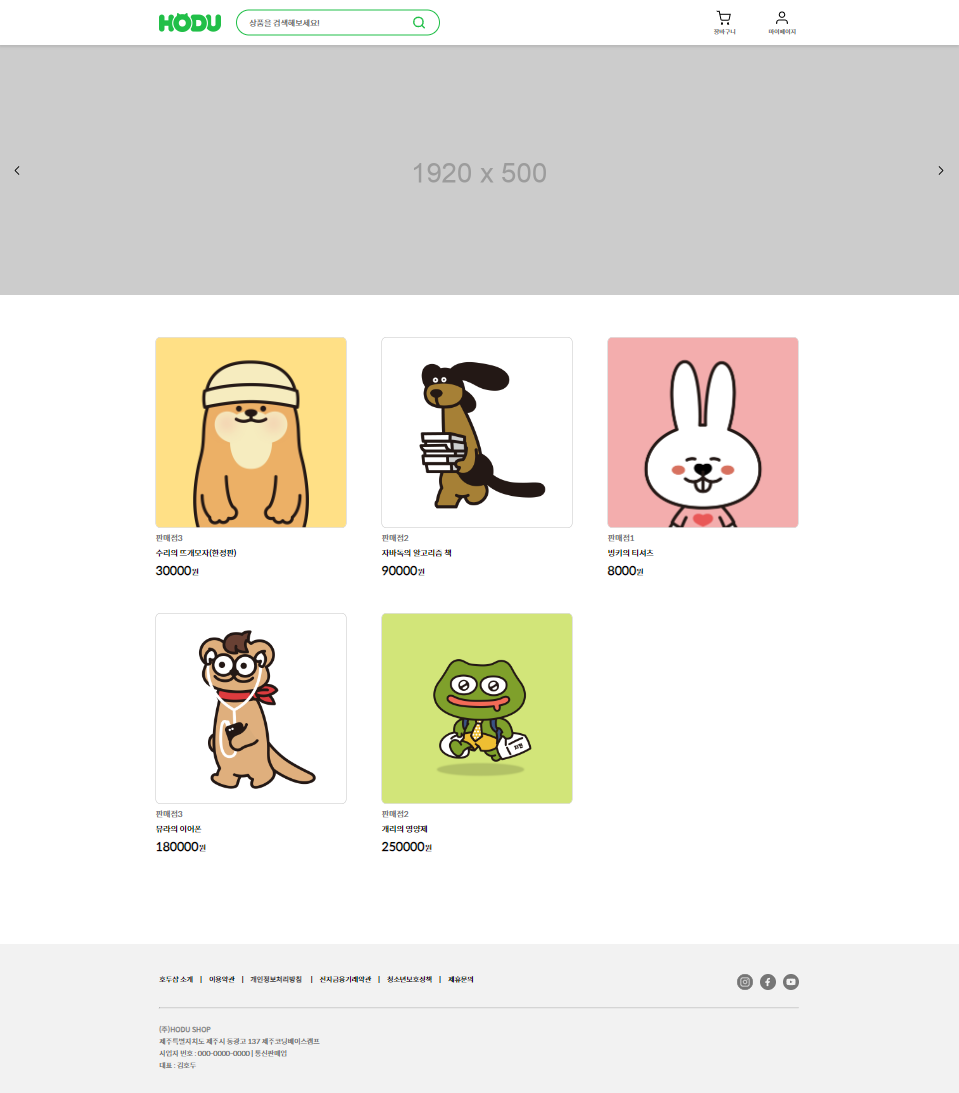
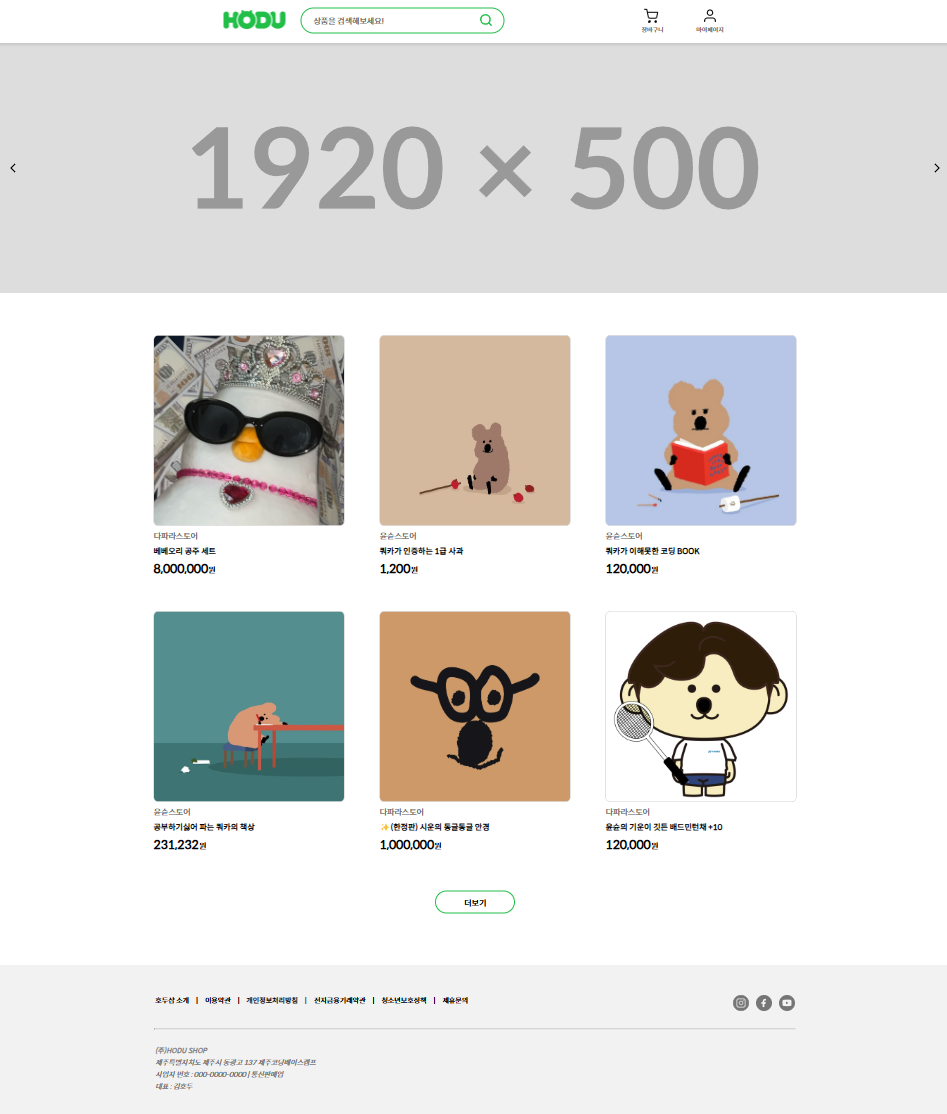
📝 Readme 수정

diff --git a/README.md b/README.md
@@ -17,7 +17,7 @@
 - 비회원과 회원의 상품목록, 상품 상세 페이지 확인 가능
 - 비회원, 로그인(구매자), 로그인(판매자)에 따른 다른 UI 적용
 
-#### 2025.01 ~ 추가 기능
+#### 2025.01.24 ~ 2025.02.07 추가 기능
 
 - 모바일 화면 구현 (반응형 UI 적용)
 - 장바구니 기능 구현
@@ -25,9 +25,10 @@
 - 메인페이지 상품 더보기 기능 구현
 - 상품 검색 기능 구현
 - 마이페이지 구현
-- 주문목록 및 주문취소 기능 구현
-- 판매자 대시보드 구현 중
-- 판매자 상품 등록 및 수정 기능 구현 중
+- 주문목록 및 주문 상세 페이지 구현
+- 주문취소 기능 구현
+- 판매자 대시보드 구현
+- 판매자 상품 등록 및 수정 기능 구현
 
 ## 배포 URL
 
@@ -57,71 +58,19 @@
   |           장바구니           |     GET     |             |    ✅     |
   | 장바구니<br>개별 및 전체삭제 |   DELETE    |             |    ✅     |
   |           주문하기           |    POST     |             |    ✅     |
-  |           주문목록           |     GET     |             |    ✅     |
+  |   주문목록 및 <br>상세목록   |     GET     |             |    ✅     |
   |           주문취소           |   DELETE    |             |    ✅     |
+  |     판매자센터 상품목록      |     GET     |             |    ✅     |
+  |     판매자센터 상품등록      |    POST     |             |    ✅     |
+  |     판매자센터 상품수정      |     PUT     |             |    ✅     |
+  |     판매자센터 상품삭제      |   DELETE    |             |    ✅     |
 
 ## 프로젝트
-
-> 프로젝트 구조
-
-- MPA 사용
-
-  |  🖥  |   로그인   |  회원가입   | 상품 목록  | 상품 상세  | 서버 에러  |
-  | :--: | :--------: | :---------: | :--------: | :--------: | :--------: |
-  | Page | login.html | signup.html | index.html | goods.html | error.html |
-
-- 추가 기능
-  | 🖥 | 장바구니 | 주문하기 | 마이페이지 | 주문 목록 | 판매자 대시보드 | 판매자 상품 등록 |
-  | :--: | :--------: | :---------: | :--------: | :--------: | :--------: | :--------: |
-  | Page | cart.html | order.html | myPage.html | orderList.html | sellerDashBoard.html | sellerGoods.html |
-
-```bash
-📦 Open_market_service
-┣ 📂assets
-┣ 📂css
-┃ ┣ 📜cart.css
-┃ ┣ 📜common.css
-┃ ┣ 📜error.css
-┃ ┣ 📜goods.css
-┃ ┣ 📜login.css
-┃ ┣ 📜main.css
-┃ ┣ 📜myPage.css
-┃ ┣ 📜order.css
-┃ ┣ 📜orderList.css
-┃ ┣ 📜reset.css
-┃ ┣ 📜sellerDashBoard.css
-┃ ┣ 📜sellerGoods.css
-┃ ┗ 📜signup.css
-┣ 📂js
-┃ ┣ 📜cart.js
-┃ ┣ 📜common.js
-┃ ┣ 📜goods.js
-┃ ┣ 📜login.js
-┃ ┣ 📜main.js
-┃ ┣ 📜myPage.js
-┃ ┣ 📜order.js
-┃ ┣ 📜orderList.js
-┃ ┣ 📜sellerDashBoard.js
-┃ ┣ 📜sellerGoods.js
-┃ ┗ 📜signup.js
-┣ 📜cart.html
-┣ 📜error.html
-┣ 📜goods.html
-┣ 📜index.html
-┣ 📜login.html
-┣ 📜myPage.html
-┣ 📜order.html
-┣ 📜orderList.html
-┣ 📜README.md
-┣ 📜sellerDashBoard.html
-┣ 📜sellerGoods.html
-┗ 📜signup.html
-```
 
 - 개발 일정
   > 2024.10.14 ~ 2024.10.21
 - 추가 기능 구현 일정
-  > 2025.01.24 ~ 구현 중
+  > 2025.01.24 ~ 2025.02.07
 
 ```mermaid
 gantt
@@ -149,7 +98,73 @@ section HTML/CSS
     Readme 수정  : after r1, 2024-10-17, 4d
 ```
 
+> 프로젝트 구조
+
+- MPA 사용
+
+  |  🖥  |   로그인   |  회원가입   | 상품 목록  | 상품 상세  | 서버 에러  |
+  | :--: | :--------: | :---------: | :--------: | :--------: | :--------: |
+  | Page | login.html | signup.html | index.html | goods.html | error.html |
+
+- 추가 기능
+  | 🖥 | 장바구니 | 주문하기 | 마이페이지 | 주문 목록 |주문 상세 |
+  | :--: | :--------: | :---------: | :--------: | :--------: |:--------: |
+  | Page | cart.html | order.html | myPage.html | orderList.html |orderDetail.html |
+
+  |  🖥  | 판매자 <br> 대시보드 | 판매자 <br> 상품 등록 | 판매자 <br> 상품 수정  |
+  | :--: | :------------------: | :-------------------: | :--------------------: |
+  | Page | sellerDashBoard.html |   sellerGoods.html    | sellerGoodsUpdate.html |
+
+```bash
+📦 Open_market_service
+┣ 📂assets
+┣ 📂css
+┃ ┣ 📜cart.css
+┃ ┣ 📜common.css
+┃ ┣ 📜error.css
+┃ ┣ 📜goods.css
+┃ ┣ 📜login.css
+┃ ┣ 📜main.css
+┃ ┣ 📜myPage.css
+┃ ┣ 📜order.css
+┃ ┣ 📜orderList.css
+┃ ┣ 📜reset.css
+┃ ┣ 📜sellerDashBoard.css
+┃ ┣ 📜sellerGoods.css
+┃ ┗ 📜signup.css
+┣ 📂js
+┃ ┣ 📜cart.js
+┃ ┣ 📜common.js
+┃ ┣ 📜gnb.js
+┃ ┣ 📜goods.js
+┃ ┣ 📜login.js
+┃ ┣ 📜main.js
+┃ ┣ 📜myPage.js
+┃ ┣ 📜order.js
+┃ ┣ 📜orderDetail.js
+┃ ┣ 📜orderList.js
+┃ ┣ 📜sellerDashBoard.js
+┃ ┣ 📜sellerGoods.js
+┃ ┗ 📜signup.js
+┣ 📜cart.html
+┣ 📜error.html
+┣ 📜goods.html
+┣ 📜index.html
+┣ 📜login.html
+┣ 📜myPage.html
+┣ 📜order.html
+┣ 📜orderDetail.html
+┣ 📜orderList.html
+┣ 📜README.md
+┣ 📜sellerDashBoard.html
+┣ 📜sellerGoods.html
+┣ 📜sellerGoodsUpdate.html
+┗ 📜signup.html
+```
+
 ## 요구사항 & 기능 명세
+
+- (추가) 기능은 추후 개발기간 중 구현 되었거나 기존 명세 사항에 존재하지 않는 기능 입니다.
 
 > 구매자 페이지
 
@@ -174,10 +189,11 @@ section HTML/CSS
 
 - 상품 목록 페이지
 
-  | 📝확인사항 |   상품 목록 페이지    | 내용                               | CHECK |
-  | :--------: | :-------------------: | :--------------------------------- | :---: |
-  |     1      | 목록에서 상품 클릭 시 | 상품 상세 페이지로 이동            |  ✅   |
-  |     2      |       상품 목록       | 상품 판매자, 상품명, 가격이 보여짐 |  ✅   |
+  | 📝확인사항 |   상품 목록 페이지    | 내용                                                                                                                    |   CHECK   |
+  | :--------: | :-------------------: | :---------------------------------------------------------------------------------------------------------------------- | :-------: |
+  |     1      | 목록에서 상품 클릭 시 | 상품 상세 페이지로 이동                                                                                                 |    ✅     |
+  |     2      |   하단 더보기 버튼    | 기존 상품 6개까지 보이고, 더보기 버튼 클릭 시 전체 상품 렌더링 <br> 전체 상품 개수가 6개 미만인 경우 더보기 버튼 안보임 | (추가)✅  |
+  |     3      |       상품 검색       | 상품 검색 목록은 검색결과 00건과 상품명과 동일한 검색 결과만 렌더링                                                     | (추가) ✅ |
 
 - 상품 상세 페이지
 
@@ -189,10 +205,11 @@ section HTML/CSS
   |     4      |        선택 옵션         | 선택된 옵션에 맞춰서 가격을 계산 및 총 가격 나타냄     |    ✅    |
   |     5      |       수량 0일 때        | 바로구매 및 장바구니 버튼 disabled                     | (추가)✅ |
   |     6      |  장바구니 버튼 클릭 시   | 장바구니 이동여부 알림을 띄우고 확인을 누르면 이동     | (추가)✅ |
+  |     7      |  바로구매 버튼 클릭 시   | 주문/결제하기 페이지로 이동되며 단일 상품 구매 가능    | (추가)✅ |
 
 - 404 페이지 (추가)
 
-  | 📝확인사항 | 상품 상세 페이지 | 내용                                               |  CHECK   |
+  | 📝확인사항 |    404 페이지    | 내용                                               |  CHECK   |
   | :--------: | :--------------: | :------------------------------------------------- | :------: |
   |     1      |  메인으로 버튼   | 메인으로 버튼 클릭 시 메인(index.html)으로 이동    | (추가)✅ |
   |     2      | 이전 페이지 버튼 | 이전 페이지 버튼 클릭 시 사용자 이전 페이지로 이동 | (추가)✅ |
@@ -200,28 +217,40 @@ section HTML/CSS
 - 페이지 상단 글로벌 네비게이션(GNB)
   | 📝확인사항 | GNB | 내용 |CHECK|
   | :-: | :-: | :- | :-: |
-  | 1 | 상단 검색창 | UI로만 존재 |✅|
-  | 2 | 구매회원 및<br> 비로그인 회원 | 검색창과 장바구니 버튼만 존재<br>(2025.01 : 장바구니 기능 구현 추가) |✅ <br>로그인 버튼 <br>존재하도록 구현|
-  | 3 | 로그인 유저 | 장바구니 버튼은 UI로만 존재<br>(2025.01 : 장바구니 기능 구현 추가) |✅|
-  | 4 | 판매회원의 페이지 상위버튼 | 마이페이지 버튼과 판매자 센터 버튼이 UI로만 존재 |✅|
+  | 1 | 상단 검색창 | UI로만 존재 <br>(2025 : 검색 기능 구현 추가) |✅|
+  | 2 | 구매회원 및<br> 비로그인 회원 | 검색창과 장바구니 버튼만 존재<br>(2025 : 검색 및 장바구니 기능 구현 추가) |✅ <br>로그인 버튼 <br>존재하도록 구현|
+  | 3 | 로그인 유저 | 장바구니 버튼은 UI로만 존재<br>(2025 : 마이페이지 및 장바구니 기능 구현 추가) |✅|
+  | 4 | 판매회원의 페이지 상위버튼 | 마이페이지 버튼과 판매자 센터 버튼이 UI로만 존재<br>(2025 : 마이페이지 및 판매자 센터 기능 구현 추가) |✅|
+  | 5 | 마이페이지 및 판매자센터 | 마이페이지와 판매자센터 내 GNB는 index GNB와는 다른 UI로 존재 |(추가)✅|
 
 - 로그인 요청 모달
   | 📝확인사항 | 로그인 요청 모달 | 내용 |CHECK|
   | :-: | :-: | :- | :-: |
   | 1 | 비로그인 사용자 | 장바구니, 바로구매 클릭 시 모달 창 open |✅|
 
-- 마이페이지
+- 마이페이지 모달
   | 📝확인사항 | 마이페이지 | 내용 |CHECK|
   | :-: | :-: | :- | :-: |
   | 1 | GNB에서 마이페이지 클릭 | 마이페이지, 로그아웃 모달창 open |✅|
-  | 2 | 드롭박스 내 마이페이지 | UI로만 존재 |✅|
+  | 2 | 드롭박스 내 마이페이지 | UI로만 존재<br>(2025 : 마이페이지 기능 구현 추가) |✅|
   | 3 | 드롭박스 내 로그아웃 클릭 | 로그아웃 기능 실행 |✅|
 
-> 2025 추가 구현 사항
+> 추가 구현 사항
+
+- 마이 페이지 (추가)
+
+| 📝확인사항 |  마이 페이지  | 내용                                                                                                                                          |  CHECK   |
+| :--------: | :-----------: | :-------------------------------------------------------------------------------------------------------------------------------------------- | :------: |
+|     1      |   나의 정보   | 상단에 이름이 표시되고 main에 사용자 유형, 아이디, 이름, 휴대폰 번호 정보가 렌더링됨<br> (사용자 유형 : buyer = 구매회원, seller = 판매 회원) | (추가)✅ |
+|     2      | 주문내역 버튼 | 구매회원의 경우 주문내역 버튼이 보이지만 판매자회원은 보이지 않음                                                                             | (추가)✅ |
+
+---
+
+> 추가 구현 사항 : 구매회원 전용 페이지
 
 - 장바구니 페이지 (추가)
 
-  | 📝확인사항 |  상품 상세 페이지   | 내용                                                                                                                                                               |  CHECK   |
+  | 📝확인사항 |   장바구니 페이지   | 내용                                                                                                                                                               |  CHECK   |
   | :--------: | :-----------------: | :----------------------------------------------------------------------------------------------------------------------------------------------------------------- | :------: |
   |     1      |  장바구니 상품정보  | 장바구니에 담긴 상품이 없는경우와 있는 경우 UI 다르게 구현                                                                                                         | (추가)✅ |
   |     2      | 전체 상품 선택 버튼 | 전체 상품 선택 버튼 클릭 시 모든 상품이 선택 되고 <br> 한번 더 클릭 시 모두 선택 해제                                                                              | (추가)✅ |
@@ -229,12 +258,58 @@ section HTML/CSS
   |     4      | 개별 상품 삭제 버튼 | 버튼 클릭 시 장바구니 개별 상품 삭제                                                                                                                               | (추가)✅ |
   |     5      |     총 금액 UI      | 장바구니 내의 총 상품금액 / 배송비 / 결제 예정 금액 UI 구현                                                                                                        | (추가)✅ |
   |     6      |   상품 수량 변경    | 장바구니 개별 상품 수량 변경 기능 구현 <br> 상품 수량이 재고 수량을 초과하지 못함 (초과 하는데 +버튼 클릭 시 alert를 띄움) <br> 상품 수량이 0 이하로 떨어지지 못함 | (추가)✅ |
+  |     7      |    주문하기 버튼    | 상품 우측의 주문하기 버튼은 해당 상품만 단일 주문 기능 <br> 하단 주문하기 버튼은 전체 선택된 상품 주문 기능으로 주문/결제하기 창으로 이동함                        | (추가)✅ |
 
-- 주문하기 페이지 (추가)
+- 주문/결제하기 페이지 (추가)
 
-  | 📝확인사항 | 상품 상세 페이지 | 내용                                                                                                              |  CHECK   |
-  | :--------: | :--------------: | :---------------------------------------------------------------------------------------------------------------- | :------: |
-  |     1      |    배송 정보     | 배송 정보 모두(배송 메세지 는 선택) 입력 및 <br> 내용 확인 및 정보제공 동의 checkbox 체크 시 결제하기 버튼 활성화 | (추가)✅ |
+  | 📝확인사항 | 주문/결제하기 페이지 | 내용                                                                                                              |  CHECK   |
+  | :--------: | :------------------: | :---------------------------------------------------------------------------------------------------------------- | :------: |
+  |     1      |      배송 정보       | 배송 정보 모두(배송 메세지 는 선택) 입력 및 <br> 내용 확인 및 정보제공 동의 checkbox 체크 시 결제하기 버튼 활성화 | (추가)✅ |
+  |     2      |  우편번호 조회 버튼  | 우편번호 조회 버튼 클릭 시 우편 조회 가능한 창이 팝업되며, <br>선택하면 배송 주소와 우편번호 자동 입력            | (추가)✅ |
+  |     3      |    결제하기 버튼     | 모두 입력하고 결제하기 버튼 클릭 시 주문이 완료되고 메인페이지로 이동됨                                           | (추가)✅ |
+
+- 주문목록 페이지 (추가)
+
+  | 📝확인사항 | 주문목록 페이지 | 내용                                                                                                                                                          |  CHECK   |
+  | :--------: | :-------------: | :------------------------------------------------------------------------------------------------------------------------------------------------------------ | :------: |
+  |     1      |    주문내역     | 주문내역으로 주문정보(구매 제품명, 주문번호, 주문 상태), 총금액, 상세보기 버튼, 주문취소 버튼이 렌더링된다. <br> 상단 우측의 주문내역수가 렌더링된다.         | (추가)✅ |
+  |     2      |    주문정보     | 구매 제품이 1개 인경우 제품명을, 1개 이상인경우 제품명 + 외 + 00건 으로 표시된다.<br>(판매자가 판매를 중단한 상품의 경우 주문을 취소해달라는 문구가 표기된다) | (추가)✅ |
+  |     3      |  상세보기 버튼  | 상세보기 버튼 클릭 시 주문 상세 내역 페이지로 이동한다.                                                                                                       | (추가)✅ |
+  |     4      |  주문취소 버튼  | 주문취소 버튼 클릭 시 주문 상태가 취소로 변경되며, 주문 정보 내 주문상태도 주문 취소로 렌더링된다.                                                            | (추가)✅ |
+
+- 주문상세 페이지 (추가)
+
+  | 📝확인사항 | 주문상세 페이지 | 내용                                                                                                                                                    |  CHECK   |
+  | :--------: | :-------------: | :------------------------------------------------------------------------------------------------------------------------------------------------------ | :------: |
+  |     1      |  주문상세내역   | 주문된 내역의 list 정보와 배송정보, 결제 수단이 렌더링된다.                                                                                             | (추가)✅ |
+  |     2      |  주문취소 버튼  | 주문상태가 결제 완료인 경우 주문취소 버튼을 클릭하여 주문취소할 수 있다.<br> 주문 취소 상태의 경우 버튼이 disabled 되며, 주문취소 완료로 문구가 바뀐다. | (추가)✅ |
+
+> 추가 구현 사항 : 판매회원 전용 페이지
+
+- 판매자센터 페이지 (추가)
+
+  | 📝확인사항 | 판매자센터 페이지 | 내용                                                                                                                                                                                                                                                   |  CHECK   |
+  | :--------: | :---------------: | :----------------------------------------------------------------------------------------------------------------------------------------------------------------------------------------------------------------------------------------------------- | :------: |
+  |     1      |     상품목록      | 판매중인 상품으로 상품정보(구매 제품명, 이미지, 재고), 판매가격, 수정 버튼, 삭제 버튼이 렌더링된다. <br> 상단 우측에 상품 업로드 버튼이 존재한다 <br> (주문/배송, 문의/리뷰, 통계, 스토어 설정은 UI로만 구현된다. - 해당 API 없어 추후 개발 예정 없음) | (추가)✅ |
+  |     2      | 상품 업로드 버튼  | 상품 업로드 버튼 클릭 시 상품을 등록 페이지로 이동한다.                                                                                                                                                                                                | (추가)✅ |
+  |     3      |     수정 버튼     | 수정 버튼 클릭 시 상품 수정 페이지로 이동한다.                                                                                                                                                                                                         | (추가)✅ |
+  |     4      |     삭제 버튼     | 삭제 버튼 클릭 시 상품이 삭제되며 목록이 렌더링된다.                                                                                                                                                                                                   | (추가)✅ |
+
+- 상품 등록 페이지 (추가)
+
+  | 📝확인사항 | 상품 등록 페이지 | 내용                                                                                                                                                   |  CHECK   |
+  | :--------: | :--------------: | :----------------------------------------------------------------------------------------------------------------------------------------------------- | :------: |
+  |     1      |    상품 등록     | 상품이미지, 상품명, 판매가, 배송방법, 기본 배송비, 재고, 상품 상세정보를 입력하여 상품을 등록할 수 있다. <br> input 값 미입력시 저장하기 버튼 disabled | (추가)✅ |
+  |     2      |    취소 버튼     | 취소 버튼 클릭 시 입력되었던 값이 모두 초기화 되며, 판매자 센터(대시보드) 페이지로 이동한다.                                                           | (추가)✅ |
+  |     3      |  저장하기 버튼   | 저장하기 버튼 클릭 시 상품이 등록되며, alert와 함께 판매자 센터 (대시보드) 페이지로 이동한다.                                                          | (추가)✅ |
+
+- 상품 수정 페이지 (추가)
+
+  | 📝확인사항 | 상품 수정 페이지 | 내용                                                                                                                                                   |  CHECK   |
+  | :--------: | :--------------: | :----------------------------------------------------------------------------------------------------------------------------------------------------- | :------: |
+  |     1      |    상품 등록     | 기존에 등록되어있던 상품이미지, 상품명, 판매가, 배송방법, 기본 배송비, 재고, 상품 상세정보가 렌더링된다. <br> input 값 미수정시 수정하기 버튼 disabled | (추가)✅ |
+  |     2      |    취소 버튼     | 취소 버튼 클릭 시 입력되었던 값이 모두 초기화 되며, 판매자 센터(대시보드) 페이지로 이동한다.                                                           | (추가)✅ |
+  |     3      |  수정하기 버튼   | 수정하기 버튼 클릭 시 상품이 수정되며, alert와 함께 판매자 센터 (대시보드) 페이지로 이동한다.                                                          | (추가)✅ |
 
 ## 화면 구현
 
@@ -249,18 +324,30 @@ section HTML/CSS
 
 ### 2. 상품 목록 , 상세 페이지 및 모달
 
-|         ⭐          |                            비회원                             |                        구매회원                        |                    판매회원                    |
-| :-----------------: | :-----------------------------------------------------------: | :----------------------------------------------------: | :--------------------------------------------: |
-|         GNB         |              <img src="./readme/GNB_비회원.png">              |         <img src="./readme/GNB_구매회원.png">          |     <img src="./readme/GNB_판매회원.png">      |
-|   마이<br>페이지    |                              ❌                               | <img src="./readme/회원 마이페이지 로그아웃 모달.png"> |                구매회원과 동일                 |
-|  index<br>상품목록  |         <img src="./readme/상품목록화면_비회원.png">          |     <img src="./readme/상품목록화면_구매회원.png">     | <img src="./readme/상품목록화면_판매회원.png"> |
-|  goods<br>상품상세  |         <img src="./readme/상품상세화면_ 비회원.png">         |     <img src="./readme/상품상세화면_구매회원.png">     | <img src="./readme/상품상세화면_판매회원.png"> |
-|  goods<br>수량버튼  |      <img src="./readme/상품상세 페이지 버튼 클릭.gif">       |                           ❌                           |                       ❌                       |
-| 상품상세<br>재고0개 |    <img src="./readme/상품상세화면_구매회원(재고0개).png">    |                           ❌                           |                       ❌                       |
-| 상품상세<br>재고1개 |    <img src="./readme/상품상세화면_구매회원(재고1개).png">    |                           ❌                           |                       ❌                       |
-| goods<br>로그인모달 | <img src="./readme/상품상세 페이지 - 비회원 로그인 모달.gif"> |                           ❌                           |                       ❌                       |
+|           ⭐           |                            비회원                             |                        구매회원                        |                    판매회원                    |
+| :--------------------: | :-----------------------------------------------------------: | :----------------------------------------------------: | :--------------------------------------------: |
+|          GNB           |              <img src="./readme/GNB_비회원.png">              |         <img src="./readme/GNB_구매회원.png">          |     <img src="./readme/GNB_판매회원.png">      |
+| GNB <br>마이<br>페이지 |                              ❌                               |         <img src="./readme/GNB마이페이지.png">         |                구매회원과 동일                 |
+| GNB <br>판매자<br>센터 |                              ❌                               |                           ❌                           |     <img src="./readme/GNB판매자센터.png">     |
+| 마이<br>페이지<br>모달 |                              ❌                               | <img src="./readme/회원 마이페이지 로그아웃 모달.png"> |                구매회원과 동일                 |
+|   index<br>상품목록    |         <img src="./readme/상품목록화면_비회원.png">          |     <img src="./readme/상품목록화면_구매회원.png">     | <img src="./readme/상품목록화면_판매회원.png"> |
+|        검색기능        |                        구매회원과 동일                        |           <img src="./readme/검색기능.gif">            |                구매회원과 동일                 |
+|       더보기버튼       |                        구매회원과 동일                        |          <img src="./readme/더보기기능.gif">           |                구매회원과 동일                 |
+|   goods<br>상품상세    |         <img src="./readme/상품상세화면_ 비회원.png">         |     <img src="./readme/상품상세화면_구매회원.png">     | <img src="./readme/상품상세화면_판매회원.png"> |
+|   goods<br>수량버튼    |      <img src="./readme/상품상세 페이지 버튼 클릭.gif">       |                           ❌                           |                       ❌                       |
+|  상품상세<br>재고0개   |    <img src="./readme/상품상세화면_구매회원(재고0개).png">    |                           ❌                           |                       ❌                       |
+|  상품상세<br>재고1개   |    <img src="./readme/상품상세화면_구매회원(재고1개).png">    |                           ❌                           |                       ❌                       |
+|  goods<br>로그인모달   | <img src="./readme/상품상세 페이지 - 비회원 로그인 모달.gif"> |                           ❌                           |                       ❌                       |
+|        바로구매        |                              ❌                               |           <img src="./readme/바로구매.gif">            |                       ❌                       |
+|        장바구니        |                              ❌                               |           <img src="./readme/장바구니.gif">            |                       ❌                       |
 
-### 3. 장바구니 페이지 (2025.01 추가)
+### 3. 마이페이지 (추가)
+
+|     ⭐     | 비회원 |                   구매회원                   |                   판매회원                   |
+| :--------: | :----: | :------------------------------------------: | :------------------------------------------: |
+| 마이페이지 |   ❌   | <img src="./readme/마이페이지_구매회원.png"> | <img src="./readme/마이페이지_판매회원.png"> |
+
+### 4. 장바구니 페이지 (추가)
 
 |          ⭐          | 비회원 |                           구매회원                           | 판매회원 |
 | :------------------: | :----: | :----------------------------------------------------------: | :------: |
@@ -270,6 +357,35 @@ section HTML/CSS
 | 장바구니<br>개별삭제 |   ❌   | <img src="./readme/장바구니화면_구매회원(개별상품삭제).gif"> |    ❌    |
 | 장바구니<br>전체삭제 |   ❌   | <img src="./readme/장바구니화면_구매회원(전체상품삭제).gif"> |    ❌    |
 | 장바구니<br>수량변경 |   ❌   |        <img src="./readme/장바구니화면_수량변경.gif">        |    ❌    |
+| 장바구니<br>단일구매 |   ❌   |              <img src="./readme/단일구매.gif">               |    ❌    |
+| 장바구니<br>전체구매 |   ❌   |              <img src="./readme/전체구매.gif">               |    ❌    |
+
+### 5. 주문/결제하기 페이지 (추가)
+
+|    ⭐     | 비회원 |               구매회원                | 판매회원 |
+| :-------: | :----: | :-----------------------------------: | :------: |
+| 페이지 UI |   ❌   | <img src="./readme/주문결제하기.png"> |    ❌    |
+| 결제하기  |   ❌   |   <img src="./readme/결제하기.gif">   |    ❌    |
+
+### 6. 주문내역 페이지 (추가)
+
+|          ⭐           | 비회원 |                  구매회원                  | 판매회원 |
+| :-------------------: | :----: | :----------------------------------------: | :------: |
+|       주문내역        |   ❌   |     <img src="./readme/주문내역.png">      |    ❌    |
+|       주문취소        |   ❌   | <img src="./readme/주문목록_주문취소.gif"> |    ❌    |
+| 주문내역<br>상세보기  |   ❌   |   <img src="./readme/주문상세내역.png">    |    ❌    |
+| 주문상세 <br>주문취소 |   ❌   | <img src="./readme/주문상세_주문취소.gif"> |    ❌    |
+
+### 7. 판매자센터 페이지 (추가)
+
+|     ⭐     | 비회원 |              구매회원               | 판매회원 |
+| :--------: | :----: | :---------------------------------: | :------: |
+| 판매자센터 |   ❌   | <img src="./readme/판매자센터.png"> |    ❌    |
+| 상품 등록  |   ❌   |  <img src="./readme/상품등록.gif">  |    ❌    |
+| 상품 수정  |   ❌   |  <img src="./readme/상품수정.gif">  |    ❌    |
+| 상품 삭제  |   ❌   |  <img src="./readme/상품삭제.gif">  |    ❌    |
+
+---
 
 ## 에러 및 해결
 
